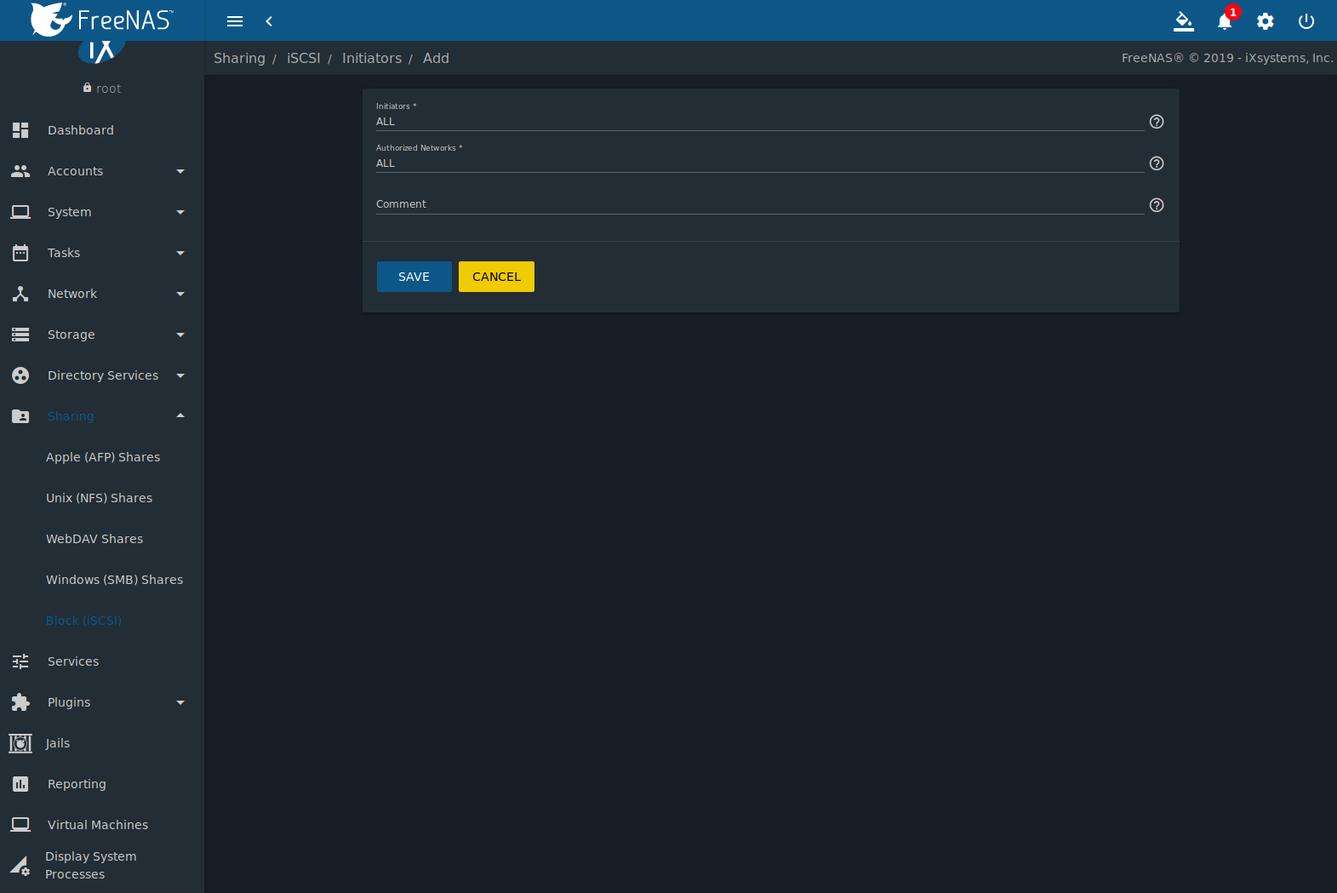
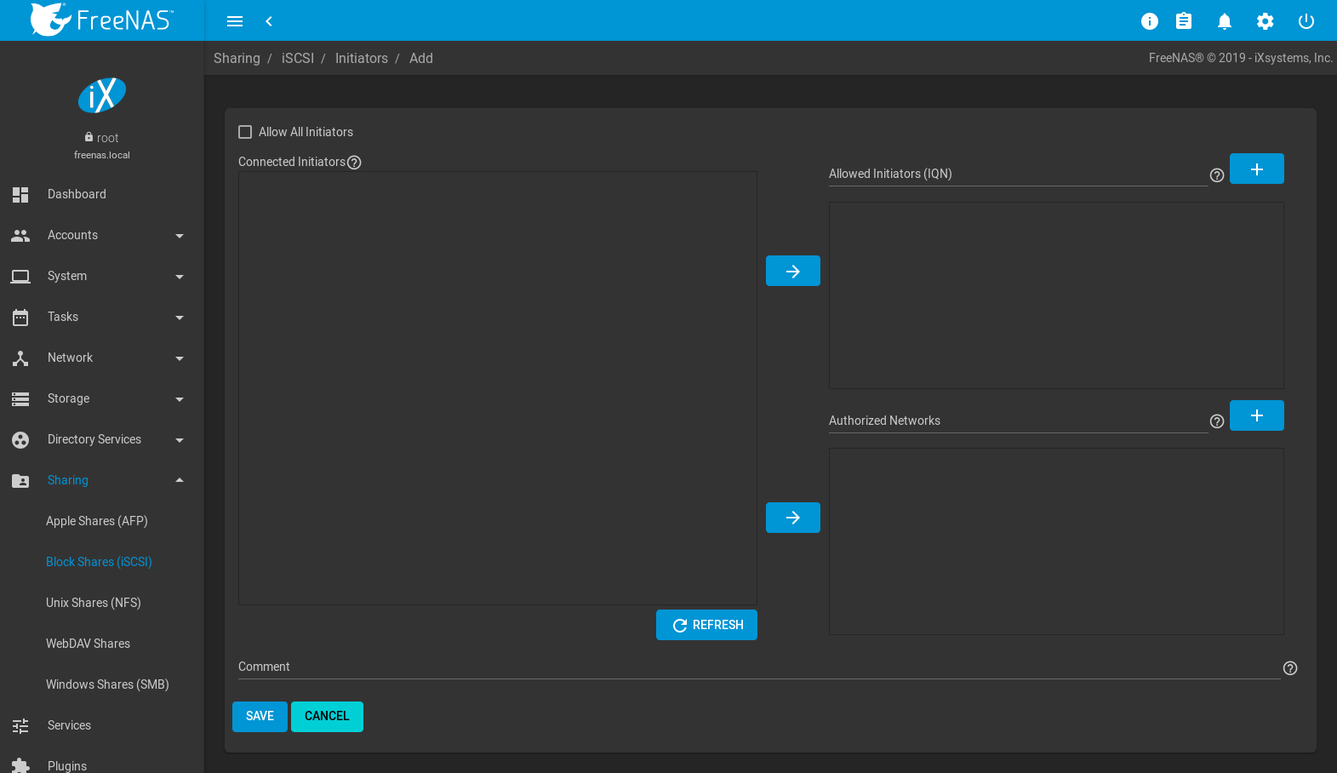
NAS-100481: Synchronize iSCSI field descriptions with UI help text - TODO: update UI help text for 'Path to the extent' and 'Extent size' - Update initiators screenshot to match changes. - Remove obsolete screenshot. - HTML build test: no issues.

diff --git a/userguide/sharing.rst b/userguide/sharing.rst
@@ -1719,8 +1719,9 @@ for iSNS requests is *5* seconds.
    |                                 |                              | Threshold Warning for more information.                                                   |
    +---------------------------------+------------------------------+-------------------------------------------------------------------------------------------+
 #ifdef truenas
-   | Enable iSCSI ALUA               | checkbox                     | Enable ALUA for automatic best path discovery when supported by clients. This option      |
-   |                                 |                              | is only available on HA systems.                                                          |
+   | Enable iSCSI ALUA               | checkbox                     | Set for the initiator to discover paths to both |ctrlrs-term| on the target and           |
+   |                                 |                              | increase storage traffic efficiency. Requires ALUA-capable, High Availability (HA)        |
+   |                                 |                              | hardware.                                                                                 |
    +---------------------------------+------------------------------+-------------------------------------------------------------------------------------------+
 #endif truenas
 
@@ -1761,8 +1762,8 @@ To assign additional IP addresses to the portal, click the link
    | Setting               | Value     | Description                                                                 |
    |                       |           |                                                                             |
    +=======================+===========+=============================================================================+
-   | Comment               | string    | Enter an optional description. Portals are automatically assigned a         |
-   |                       |           | numeric group ID.                                                           |
+   | Comment               | string    | Optional description. Portals are automatically assigned a numeric group    |
+   |                       |           | ID.                                                                         |
    +-----------------------+-----------+-----------------------------------------------------------------------------+
    | Discovery Auth Method | drop-down | :ref:`iSCSI` supports multiple authentication methods that are used by the  |
    |                       | menu      | target to discover valid devices. *None* allows anonymous discovery while   |
@@ -1771,8 +1772,7 @@ To assign additional IP addresses to the portal, click the link
    |                       |           |                                                                             |
    +-----------------------+-----------+-----------------------------------------------------------------------------+
    | Discovery Auth Group  | drop-down | Select a user created in :guilabel:`Authorized Access` if the               |
-   |                       | menu      | :guilabel:`Discovery Auth Method` is set to *CHAP* or                       |
-   |                       |           | *Mutual CHAP*.                                                              |
+   |                       | menu      | :guilabel:`Discovery Auth Method` is set to *CHAP* or *Mutual CHAP*.        |
    |                       |           |                                                                             |
    +-----------------------+-----------+-----------------------------------------------------------------------------+
    | IP address            | drop-down | Select the IPv4 or IPv6 address associated with an interface or the         |
@@ -1852,42 +1852,35 @@ initiator.
 .. table:: Initiator Configuration Settings
    :class: longtable
 
-   +---------------------+-----------+--------------------------------------------------------------------------------------+
-   | Setting             | Value     | Description                                                                          |
-   |                     |           |                                                                                      |
-   +=====================+===========+======================================================================================+
-   | Initiators          | string    | Use *ALL* keyword or a list of initiator hostnames separated by spaces.              |
-   |                     |           |                                                                                      |
-   +---------------------+-----------+--------------------------------------------------------------------------------------+
-   | Authorized Networks | string    | Network addresses that can use this initiator. Use :literal:`ALL` or list network    |
-   |                     |           | addresses with a `CIDR                                                               |
-   |                     |           | <https://en.wikipedia.org/wiki/Classless_Inter-Domain_Routing>`__ mask. Separate     |
-   |                     |           | multiple addresses with a space: :samp:`192.168.2.0/24 192.168.2.1/12`.              |
-   |                     |           |                                                                                      |
-   +---------------------+-----------+--------------------------------------------------------------------------------------+
-   | Comment             | string    | Notes or a description of the initiator.                                             |
-   |                     |           |                                                                                      |
-   +---------------------+-----------+--------------------------------------------------------------------------------------+
+   +----------------------+-----------+--------------------------------------------------------------------------------------+
+   | Setting              | Value     | Description                                                                          |
+   |                      |           |                                                                                      |
+   +======================+===========+======================================================================================+
+   | Allow All Initiators | checkbox  | Set to accept all detected initiators. Disables all other initiator fields.          |
+   +----------------------+-----------+--------------------------------------------------------------------------------------+
+   | Connected Initiators | string    | Initiators currently connected to the system. Shown in IQN format with an IP         |
+   |                      |           | address. Set initiators and click an :menuselection:` --> (Arrow)` to add the        |
+   |                      |           | initiators to either the :guilabel:`Allowed Initiators` or                           |
+   |                      |           | :guilabel:`Authorized Networks` lists. Clicking :guilabel:`REFRESH` updates the      |
+   |                      |           | :guilabel:`Connected Initiators` list.                                               |
+   +----------------------+-----------+--------------------------------------------------------------------------------------+
+   | Allowed Initiators   | string    | Initiators allowed access to this system. Enter an                                   |
+   | (IQN)                |           | `iSCSI Qualified Name (IQN) <https://tools.ietf.org/html/rfc3720#section-3.2.6>`__   |
+   |                      |           | and click :guilabel:`+` to add it to the list. Example:                              |
+   |                      |           | :samp:`{iqn.1994-09.org.freebsd:freenas.local}`                                      |
+   +----------------------+-----------+--------------------------------------------------------------------------------------+
+   | Authorized Networks  | string    | Network addresses which are allowed to use this initiator. Each address can include  |
+   |                      |           | an optional `CIDR <https://en.wikipedia.org/wiki/Classless_Inter-Domain_Routing>`__  |
+   |                      |           | netmask. Click :guilabel:`+` to add the network address to the list. Example:        |
+   |                      |           | :samp:`{192.168.2.0/24}`                                                             |
+   +----------------------+-----------+--------------------------------------------------------------------------------------+
+   | Comment              | string    | Any notes about initiators.                                                          |
+   |                      |           |                                                                                      |
+   +----------------------+-----------+--------------------------------------------------------------------------------------+
 
 
-In the example shown in
-:numref:`Figure %s <iscsi_initiator_conf_sample_fig>`,
-two groups are created. Group 1 allows connections from any
-initiator on any network. Group 2 allows connections from any
-initiator on the *10.10.1.0/24* network. Click |ui-options| on an
-initiator entry to display its :guilabel:`Edit` and :guilabel:`Delete`
-buttons.
-
-.. note:: Attempting to delete an initiator causes a warning that
-   indicates if any targets or target/extent mappings depend upon the
-   initiator. Confirming the delete causes these to be deleted also.
-
-
-.. _iscsi_initiator_conf_sample_fig:
-
-.. figure:: images/sharing-block-iscsi-initiators-example.png
-
-   Sample iSCSI Initiator Configuration
+Click |ui-options| on an initiator entry for options to :guilabel:`Edit`
+or :guilabel:`Delete` it.
 
 
 .. _Authorized Accesses:
@@ -1935,18 +1928,16 @@ authorized access:
    |             |           | to inherit the Group *1* authentication profile. Group IDs that are already configured with authorized access cannot be reused.  |
    |             |           |                                                                                                                                  |
    +-------------+-----------+----------------------------------------------------------------------------------------------------------------------------------+
-   | User        | string    | Enter name of user account to create for CHAP authentication with the user on the remote system. Many initiators default         |
-   |             |           | to using the initiator name as the user.                                                                                         |
+   | User        | string    | User account to create for CHAP authentication with the user on the remote system. Many initiators use the initiator name as the |
+   |             |           | user name.                                                                                                                       |
+   +-------------+-----------+----------------------------------------------------------------------------------------------------------------------------------+
+   | Secret      | string    | :guilabel:`User` password. Must be at least *12* and no more than *16* characters long.                                          |
    |             |           |                                                                                                                                  |
    +-------------+-----------+----------------------------------------------------------------------------------------------------------------------------------+
-   | Secret      | string    | Enter and confirm a password for :guilabel:`User`. Must be between 12 and 16 characters.                                         |
+   | Peer User   | string    | Only entered when configuring mutual CHAP. Usually this is the same value as :guilabel:`User`.                                   |
    |             |           |                                                                                                                                  |
    +-------------+-----------+----------------------------------------------------------------------------------------------------------------------------------+
-   | Peer User   | string    | Only input when configuring mutual CHAP. In most cases it will need to be the same value as :guilabel:`User`.                    |
-   |             |           |                                                                                                                                  |
-   +-------------+-----------+----------------------------------------------------------------------------------------------------------------------------------+
-   | Peer Secret | string    | Enter and confirm the mutual secret password which **must be different than the** :guilabel:`Secret`. Required if                |
-   |             |           | :guilabel:`Peer User` is set.                                                                                                    |
+   | Peer Secret | string    | Mutual secret password. Required when :guilabel:`Peer User` is set. Must be different than the :guilabel:`Secret`.               |
    +-------------+-----------+----------------------------------------------------------------------------------------------------------------------------------+
 
 
@@ -2030,10 +2021,7 @@ summarizes the settings that can be configured when creating a Target.
    | Initiator Group ID          | drop-down menu | Select which existing initiator group has access to the target.                                             |
    |                             |                |                                                                                                             |
    +-----------------------------+----------------+-------------------------------------------------------------------------------------------------------------+
-   | Auth Method                 | drop-down menu | Choices are: *None*,                                                                                        |
-   |                             |                | *Auto*,                                                                                                     |
-   |                             |                | *CHAP*, or                                                                                                  |
-   |                             |                | *Mutual CHAP*.                                                                                              |
+   | Auth Method                 | drop-down menu | Choices are: *None*, *Auto*, *CHAP*, or *Mutual CHAP*.                                                      |
    |                             |                |                                                                                                             |
    +-----------------------------+----------------+-------------------------------------------------------------------------------------------------------------+
    | Authentication Group number | drop-down menu | Select *None* or an integer. This number represents the number of existing authorized accesses.             |
@@ -2122,61 +2110,55 @@ file to be created is appended to the pool or dataset name.**
 .. table:: Extent Configuration Settings
    :class: longtable
 
-   +--------------------+----------------+----------------------------------------------------------------------------------------------------------------------+
-   | Setting            | Value          | Description                                                                                                          |
-   |                    |                |                                                                                                                      |
-   +====================+================+======================================================================================================================+
-   | Extent name        | string         | Enter the extent name. If the :guilabel:`Extent size` is not *0*, it cannot be an existing file within the           |
-   |                    |                | pool or dataset.                                                                                                     |
-   +--------------------+----------------+----------------------------------------------------------------------------------------------------------------------+
-   | Extent type        | drop-down menu | Select from *File* or                                                                                                |
-   |                    |                | *Device*.                                                                                                            |
-   |                    |                |                                                                                                                      |
-   +--------------------+----------------+----------------------------------------------------------------------------------------------------------------------+
-   | Path to the extent | browse button  | Only appears if *File* is selected. Browse to an existing file and use *0* as the :guilabel:`Extent size`,           |
-   |                    |                | **or** browse to the pool or dataset, click :guilabel:`Close`, append the :guilabel:`Extent Name` to the path,       |
-   |                    |                | and specify a value in :guilabel:`Extent size`. Extents cannot be created inside the jail root directory.            |
-   |                    |                |                                                                                                                      |
-   +--------------------+----------------+----------------------------------------------------------------------------------------------------------------------+
-   | Extent size        | integer        | Only appears if *File* is selected. If the size is specified as                                                      |
-   |                    |                | *0*, the file must already exist and the actual file size will be used. Otherwise, specify the size of the file to   |
-   |                    |                | create.                                                                                                              |
-   |                    |                |                                                                                                                      |
-   +--------------------+----------------+----------------------------------------------------------------------------------------------------------------------+
-   | Device             | drop-down menu | Only appears if *Device* is selected. Select the unformatted disk, controller, zvol, zvol snapshot, or HAST device.  |
-   |                    |                |                                                                                                                      |
-   +--------------------+----------------+----------------------------------------------------------------------------------------------------------------------+
-   | Logical block size | drop-down menu | Only override the default if the initiator requires a different block size.                                          |
-   |                    |                |                                                                                                                      |
-   +--------------------+----------------+----------------------------------------------------------------------------------------------------------------------+
-   | Disable physical   | checkbox       | Set if the initiator does not support physical block size values over 4K (MS SQL). Setting can also prevent          |
-   | block size         |                | `constant block size warnings                                                                                        |
-   | reporting          |                | <https://www.virten.net/2016/12/the-physical-block-size-reported-by-the-device-is-not-supported/>`__                 |
-   |                    |                | when using this share with ESXi.                                                                                     |
-   |                    |                |                                                                                                                      |
-   +--------------------+----------------+----------------------------------------------------------------------------------------------------------------------+
-   | Available space    | string         | Only appears if *File* or a zvol is selected. When the specified percentage of free space is reached, the system     |
-   | threshold          |                | issues an alert. See :ref:`VAAI` Threshold Warning.                                                                  |
-   |                    |                |                                                                                                                      |
-   +--------------------+----------------+----------------------------------------------------------------------------------------------------------------------+
-   | Comment            | string         | Enter an optional comment.                                                                                           |
-   |                    |                |                                                                                                                      |
-   +--------------------+----------------+----------------------------------------------------------------------------------------------------------------------+
-   | Enable TPC         | checkbox       | If enabled, an initiator can bypass normal access control and access any scannable target. This allows               |
-   |                    |                | :command:`xcopy` operations otherwise blocked by access control.                                                     |
-   |                    |                |                                                                                                                      |
-   +--------------------+----------------+----------------------------------------------------------------------------------------------------------------------+
-   | Xen initiator      | checkbox       | Set this option when using Xen as the iSCSI initiator.                                                               |
-   | compat mode        |                |                                                                                                                      |
-   |                    |                |                                                                                                                      |
-   +--------------------+----------------+----------------------------------------------------------------------------------------------------------------------+
-   | LUN RPM            | drop-down menu | Do **NOT** change this setting when using Windows as the initiator. Only needs to be changed in large environments   |
-   |                    |                | where the number of systems using a specific RPM is needed for accurate reporting statistics.                        |
-   |                    |                |                                                                                                                      |
-   +--------------------+----------------+----------------------------------------------------------------------------------------------------------------------+
-   | Read-only          | checkbox       | Set this option to prevent the initiator from initializing this LUN.                                                 |
-   |                    |                |                                                                                                                      |
-   +--------------------+----------------+----------------------------------------------------------------------------------------------------------------------+
+   +--------------------+----------------+--------------------------------------------------------------------------------------------------------------------------+
+   | Setting            | Value          | Description                                                                                                              |
+   |                    |                |                                                                                                                          |
+   +====================+================+==========================================================================================================================+
+   | Extent name        | string         | Enter the extent name. If the :guilabel:`Extent size` is not *0*, it cannot be an existing file within the               |
+   |                    |                | pool or dataset.                                                                                                         |
+   +--------------------+----------------+--------------------------------------------------------------------------------------------------------------------------+
+   | Extent type        | drop-down menu | *File* shares the contents of an individual file. *Device* shares an entire device.                                      |
+   +--------------------+----------------+--------------------------------------------------------------------------------------------------------------------------+
+   | Path to the extent | browse button  | Only appears when *File* is selected. Browse to an existing file. Create a new file by browsing to a dataset and         |
+   |                    |                | appending the file name to the path. When the file already exists, enter an :guilabel:`Extent size` of *0* to use the    |
+   |                    |                | actual file size. For new files, enter the size of the file to create.                                                   |
+   +--------------------+----------------+--------------------------------------------------------------------------------------------------------------------------+
+   | Extent size        | integer        | Only appears when *File* is selected. Entering *0* uses the actual file size and requires that the file already exists.  |
+   |                    |                | Otherwise, specify the file size for the new file.                                                                       |
+   +--------------------+----------------+--------------------------------------------------------------------------------------------------------------------------+
+   | Device             | drop-down menu | Only appears when *Device* is selected. Select the unformatted disk, controller, zvol, zvol snapshot, or HAST device.    |
+   |                    |                |                                                                                                                          |
+   +--------------------+----------------+--------------------------------------------------------------------------------------------------------------------------+
+   | Logical block size | drop-down menu | Only override the default if the initiator requires a different block size.                                              |
+   |                    |                |                                                                                                                          |
+   +--------------------+----------------+--------------------------------------------------------------------------------------------------------------------------+
+   | Disable physical   | checkbox       | Set if the initiator does not support physical block size values over 4K (MS SQL). Setting can also prevent              |
+   | block size         |                | `constant block size warnings                                                                                            |
+   | reporting          |                | <https://www.virten.net/2016/12/the-physical-block-size-reported-by-the-device-is-not-supported/>`__                     |
+   |                    |                | when using this share with ESXi.                                                                                         |
+   |                    |                |                                                                                                                          |
+   +--------------------+----------------+--------------------------------------------------------------------------------------------------------------------------+
+   | Available space    | string         | Only appears if *File* or a zvol is selected. When the specified percentage of free space is reached, the system         |
+   | threshold          |                | issues an alert. See :ref:`VAAI` Threshold Warning.                                                                      |
+   |                    |                |                                                                                                                          |
+   +--------------------+----------------+--------------------------------------------------------------------------------------------------------------------------+
+   | Comment            | string         | Enter any notes.                                                                                                         |
+   |                    |                |                                                                                                                          |
+   +--------------------+----------------+--------------------------------------------------------------------------------------------------------------------------+
+   | Enable TPC         | checkbox       | Set to allow an initiator to bypass bypass normal access control and access any scannable target. This allows `xcopy     |
+   |                    |                | <https://docs.microsoft.com/en-us/previous-versions/windows/it-pro/windows-server-2012-R2-and-2012/cc771254(v=ws.11)>`__ |
+   |                    |                | operations which are otherwise blocked by access control.                                                                |
+   +--------------------+----------------+--------------------------------------------------------------------------------------------------------------------------+
+   | Xen initiator      | checkbox       | Set when using Xen as the iSCSI initiator.                                                                               |
+   | compat mode        |                |                                                                                                                          |
+   +--------------------+----------------+--------------------------------------------------------------------------------------------------------------------------+
+   | LUN RPM            | drop-down menu | Do **NOT** change this setting when using Windows as the initiator. Only needs to be changed in large environments       |
+   |                    |                | where the number of systems using a specific RPM is needed for accurate reporting statistics.                            |
+   |                    |                |                                                                                                                          |
+   +--------------------+----------------+--------------------------------------------------------------------------------------------------------------------------+
+   | Read-only          | checkbox       | Set to prevent the initiator from initializing this LUN.                                                                 |
+   |                    |                |                                                                                                                          |
+   +--------------------+----------------+--------------------------------------------------------------------------------------------------------------------------+
 
 
 New extents have been added to
@@ -2225,8 +2207,9 @@ and extents.
    |             |                |                                                           |
    +-------------+----------------+-----------------------------------------------------------+
    | LUN ID      | integer        | Select or enter a value between *0* and *1023*. Some      |
-   |             |                | initiators expect a value less than *256*. Use unique     |
-   |             |                | LUN IDs for each associated target.                       |
+   |             |                | initiators expect a value less than *256*. Leave this     |
+   |             |                | field blank to automatically assign the next available    |
+   |             |                | ID.                                                       |
    +-------------+----------------+-----------------------------------------------------------+
    | Extent      | drop-down menu | Select an existing extent.                                |
    |             |                |                                                           |
